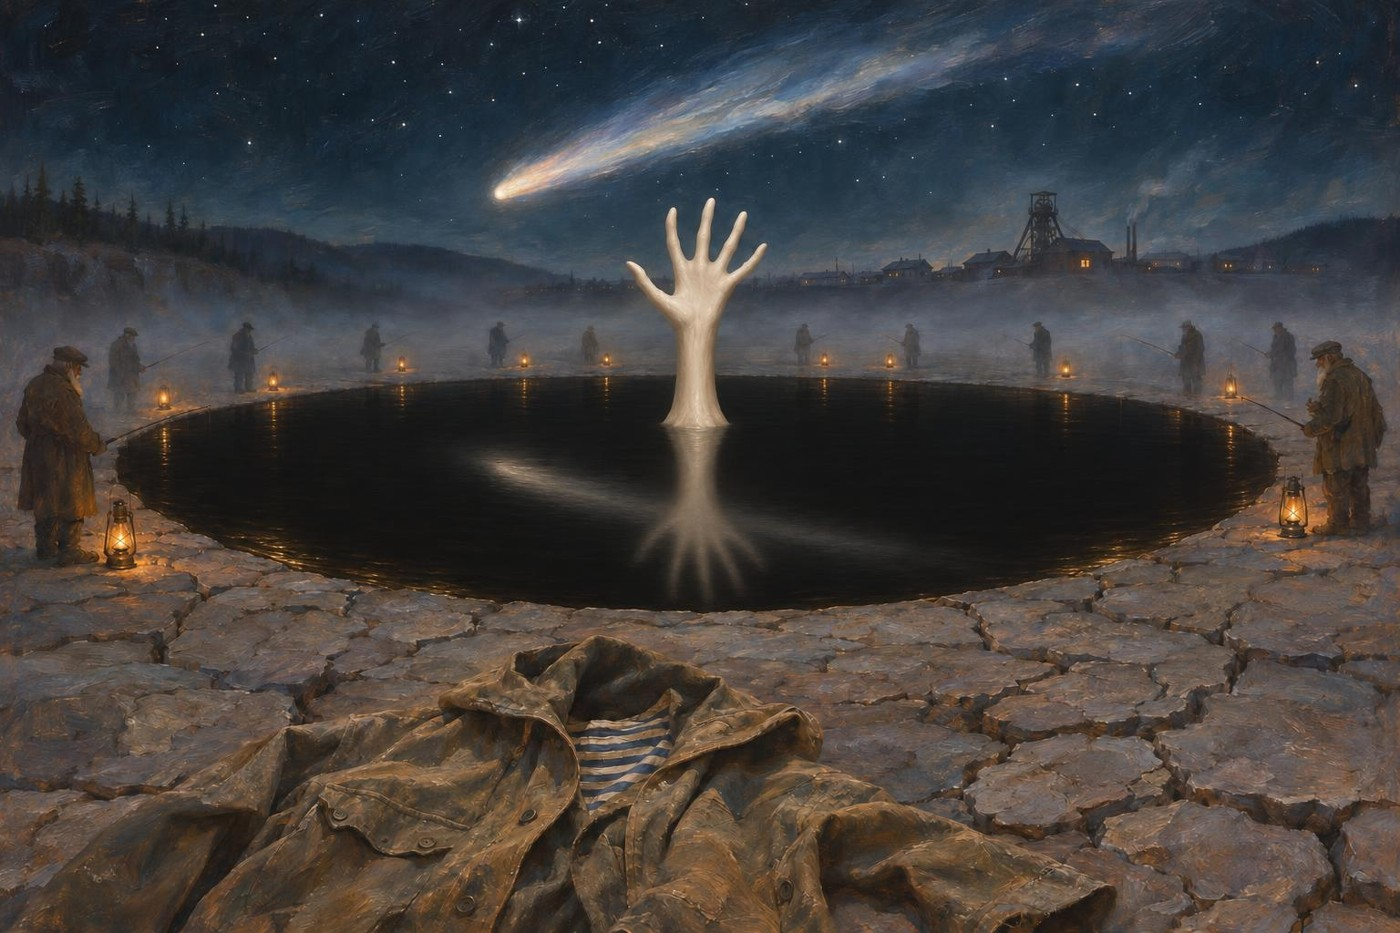
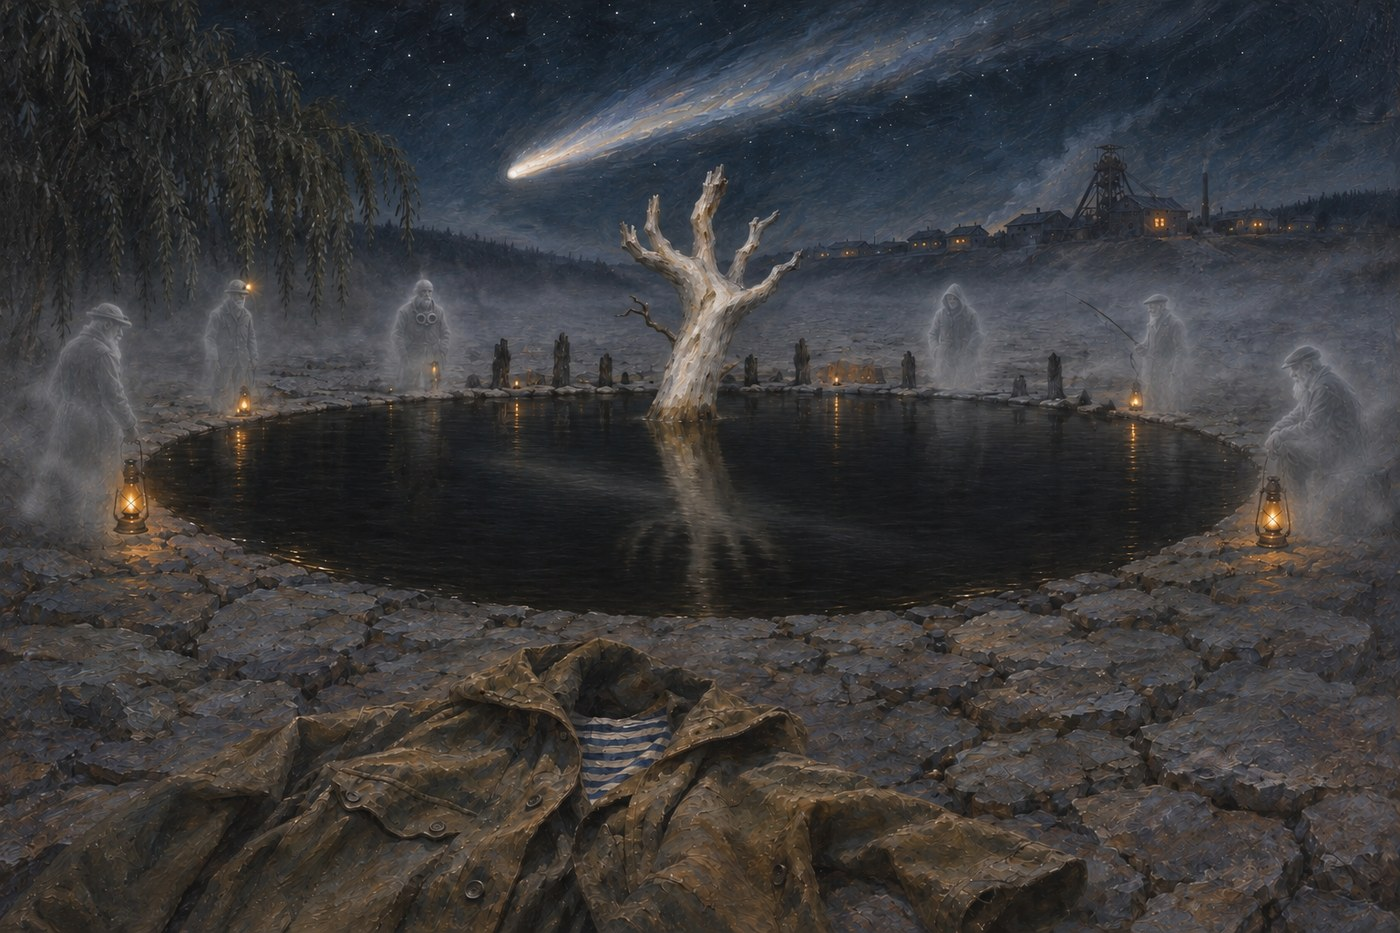
Промо «Два времени» и лента «О чём игра» по канону заводи: залив у берега, чёрная вода, коряга-дерево вплавь, шесть туманных старцев
Claude-Session: https://claude.ai/code/session_01GzJ3u3wjSbWTkMDop7YGjj

diff --git a/docs/HANDOFF_zcode.md b/docs/HANDOFF_zcode.md
@@ -183,3 +183,13 @@
 
 ## 📌 От Claude (14 ноября 2026, v3.10): DLC теперь «Трое до рассвета»
 - По решению автора переименовал дополнение: «Объяснение» → «Трое до рассвета»; шкала «Невероятность» → «Молва» (HUD, правила, штамп «Молва +N», итог, лучшая ночь). Под портретами и в панели вместо «газ/свет/вода · время» — только «до ЧЧ:ММ». Правил `obyasnenie.html`, `core.js` (одна строка лога), `music.js`/`music.html` (комментарии). Папку и ключи сохранений не трогал. Если будешь менять DLC — пожалуйста, держи новые названия.
+
+## 📌 От Claude (14 ноября 2026): география Чёрной заводи — канон п.37, сверяй все кадры у воды
+Автор утвердил одну географию на всю игру. Перерисованы `Т-00`, `Т-01`, `promo_menu_two_times.jpg` (промо «Два времени»), `promo_menu_night.jpg` (лента «О чём игра»).
+- **Заводь** — небольшой, почти круглый (≈40 м) залив Томи **у левого берега**, под высоким берегом с тальником (ивы нависают). НЕ посреди реки и не «дыра в дне».
+- От реки её отделяет **низкая каменистая коса с рядом старых чёрных свай** (разобранный причал). Коса с ближним берегом не соединяется.
+- **Вода чёрная**, как крепкий чай, стоячая, заметно темнее реки.
+- **Ближний край** — плоские камни у подножия берега (там стоят дети, сидит старик в 2061).
+- **Коряга** — белое мёртвое дерево по `img/ref/snag_ref.png` (дерево, НЕ человеческая ладонь), стоит в чёрной воде на дальнем краю, в нескольких метрах перед сваями, вода со всех сторон: от детей ≈25 м, только вплавь.
+- **2061:** Томь ушла, за косой сухое русло до горизонта; заводь там же, полная до краёв.
+- **Хор у воды:** ровно шесть разных старцев, туманные, полупрозрачные, стоят на камнях по краю, воды не касаются.
